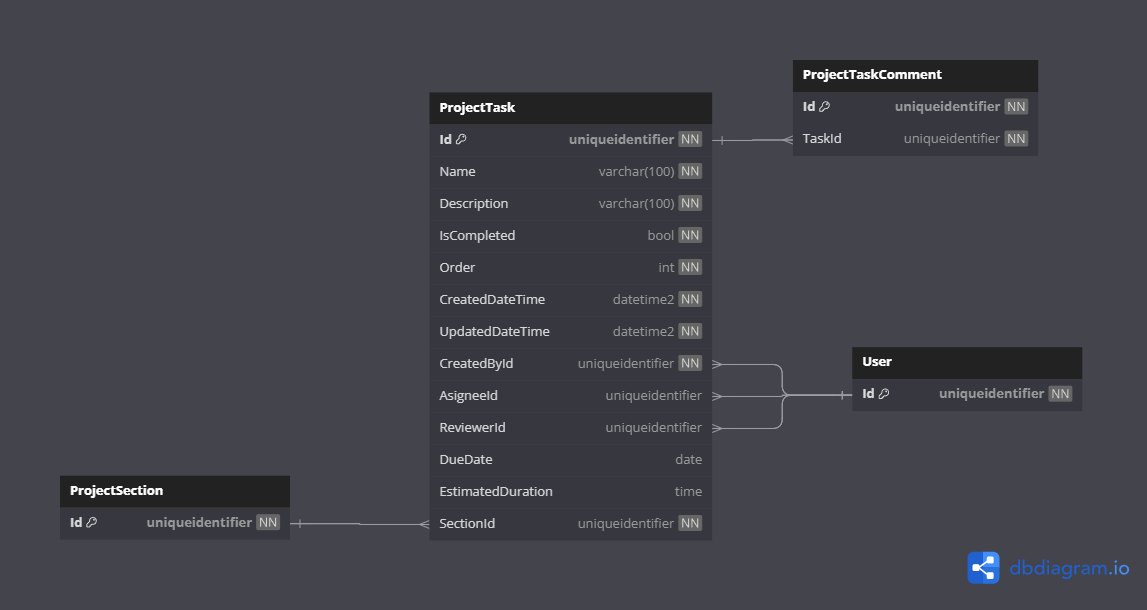
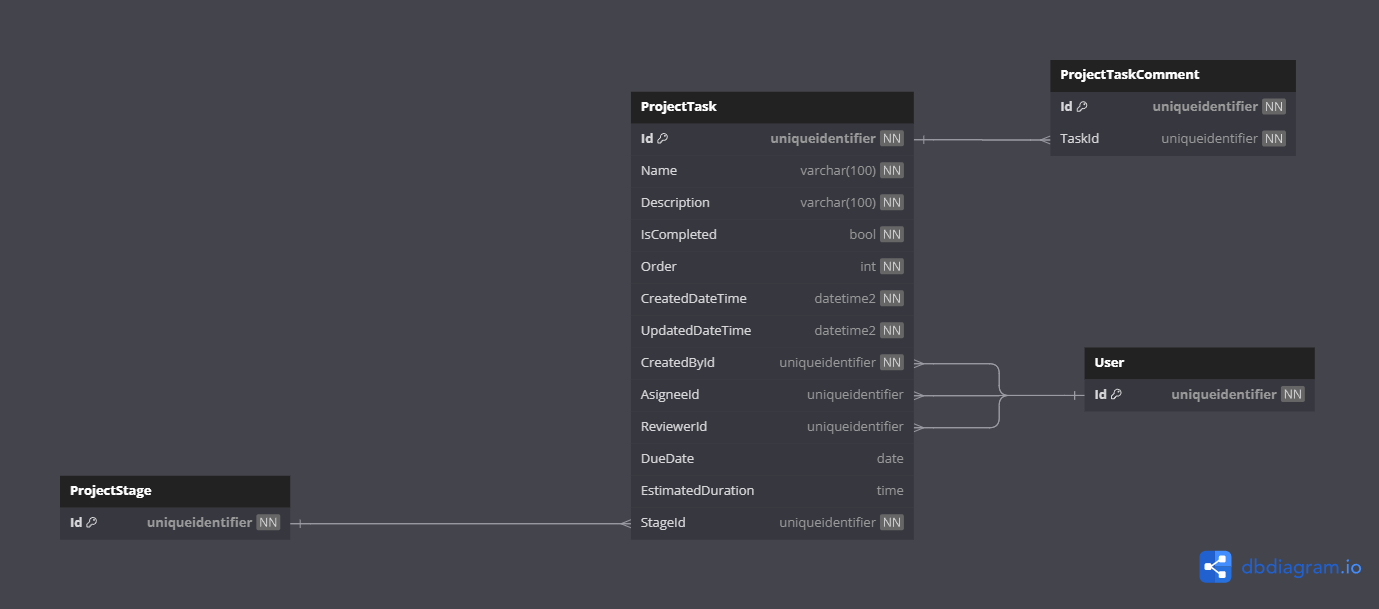
#100 Domain - Rename the Project Section to Project Stage inside the Documentation

diff --git a/docs/domain/entities/project/Entity.ProjectStage.md b/docs/domain/entities/project/Entity.ProjectStage.md
@@ -1,13 +1,13 @@
 # Domain Entities
 
-## Project Section
+## Project Stage
 
-This is the project **section** entity.
+This is the project **stage** entity.
 
 ```csharp
-class ProjectSection
+class ProjectStage
 {
-    ProjectSection Create()
+    ProjectStage Create()
     void Update()
     void AddTask()
 }
@@ -16,14 +16,14 @@ class ProjectSection
 ```json
 {
   "id": { "value": "00000000-0000-0000-0000-000000000000" },
-  "name": { "value": "Section 1" },
+  "name": { "value": "Stage 1" },
   "order": { "value": 0 },
   "sprint": {},
   "tasks": [{}]
 }
 ```
 
-For database design checkout the [Project Section Diagram](../../diagrams/entities/project/Diagram.ProjectSection.md).
+For database design checkout the [Project Stage Diagram](../../diagrams/entities/project/Diagram.ProjectStage.md).
 
 ### Properties Validation
 

diff --git a/docs/domain/aggregates/Aggregate.Project.md b/docs/domain/aggregates/Aggregate.Project.md
@@ -34,7 +34,7 @@ For database design checkout the [Project Diagram](../diagrams/aggregates/Diagra
 ### Entities
 
 - [Project Sprint](../entities/project/Entity.ProjectSprint.md)
-- [Project Section](../entities/project/Entity.ProjectSection.md)
+- [Project Stage](../entities/project/Entity.ProjectStage.md)
 
 ### Properties Validation
 
@@ -46,4 +46,5 @@ For database design checkout the [Project Diagram](../diagrams/aggregates/Diagra
 - **Not Found** when the project cannot be found
 
 ### Domain Events
-- **Project Created** when the project gets created, it will also create sprints, sections and tasks as examples for user 
+
+- **Project Created** when the project gets created, it will also create sprints, stages and tasks as examples for user 

diff --git a/docs/domain/diagrams/aggregates/Diagram.Project.md b/docs/domain/diagrams/aggregates/Diagram.Project.md
@@ -7,7 +7,7 @@
 - **Many-to-one** relationship with the [Workspace](../../aggregates/Aggregate.Workspace.md) aggregate.
 - **One-to-Many** relationship with the [Project Sprint](../../entities/project/Entity.ProjectSprint.md) entity.
   - The Sprint has a **One-to-Many** relationship with the 
-    [Project Section](../../entities/project/Entity.ProjectSection.md) entity.
+    [Project Stage](../../entities/project/Entity.ProjectStage.md) entity.
     - The Section has a **One-to-Many** relationship with the
       [Project Task](../../aggregates/Aggregate.ProjectTask) aggregate.
 

diff --git a/docs/Domain.md b/docs/Domain.md
@@ -110,6 +110,6 @@ except the primary key and direct relations), check below:
   - [Workspace Role Diagram](domain/diagrams/entities/Diagram.WorkspaceRole.md)
   - Project Entities
     - [Project Sprint Diagram](domain/diagrams/entities/project/Diagram.ProjectSprint.md)
-    - [Project Section Diagram](domain/diagrams/entities/project/Diagram.ProjectSection.md)
+    - [Project Stage Diagram](domain/diagrams/entities/project/Diagram.ProjectStage.md)
   - Project Task Entities
     - [Project Task Comment Diagram](domain/diagrams/entities/project-task/Diagram.ProjectTaskComment.md)

diff --git a/docs/domain/diagrams/aggregates/Diagram.ProjectTask.md b/docs/domain/diagrams/aggregates/Diagram.ProjectTask.md
@@ -4,7 +4,7 @@
 
 ### Relationships
 
-- **Many-to-one** relationship with the [Project Section](../../entities/project/Entity.ProjectSection.md) entity.
+- **Many-to-one** relationship with the [Project Stage](../../entities/project/Entity.ProjectStage.md) entity.
 - **One-to-Many** relationship with the [Project Task Comment](../../entities/project-task/Entity.ProjectTaskComment.md) entity.
 - Three **Many-to-one** relationships with the [User](../../aggregates/Aggregate.User.md) aggregate.
 

diff --git a/docs/domain/diagrams/entities/project/Diagram.ProjectStage.md b/docs/domain/diagrams/entities/project/Diagram.ProjectStage.md
@@ -1,0 +1,12 @@
+# Database Diagrams
+
+## Project Stage
+
+### Relationships
+
+- **Many-to-one** relationship with the [Project Sprint](../../../entities/project/Entity.ProjectSprint.md) entity.
+- **One-to-many** relationship with the [Project Task](../../../aggregates/Aggregate.ProjectTask.md) entity.
+
+### Diagram
+
+<img src="../../../../images/domain/diagrams/entities/project/diagram.project-stage.png" alt="Project Stage Diagram" width="75%"/>

diff --git a/docs/domain/diagrams/entities/project/Diagram.ProjectSprint.md b/docs/domain/diagrams/entities/project/Diagram.ProjectSprint.md
@@ -5,7 +5,7 @@
 ### Relationships
 
 - **Many-to-one** relationship with the [Project](../../../aggregates/Aggregate.Project.md) aggregate.
-- **One-to-many** relationship with the [Project Section](../../../entities/project/Entity.ProjectSection.md) entity.
+- **One-to-many** relationship with the [Project Stage](../../../entities/project/Entity.ProjectStage.md) entity.
 
 ### Diagram
 

diff --git a/docs/domain/aggregates/Aggregate.ProjectTask.md b/docs/domain/aggregates/Aggregate.ProjectTask.md
@@ -27,7 +27,7 @@ class ProjectTask
   "reviewer": {},
   "dueDate": "2020-01-01",
   "estimatedDuration": "08:30",
-  "section": {},
+  "stage": {},
   "comments": [{}]
 }
 ```

diff --git a/docs/domain/entities/project/Entity.ProjectSprint.md b/docs/domain/entities/project/Entity.ProjectSprint.md
@@ -21,7 +21,7 @@ class ProjectSprint
   "startDate": "2020-01-01",
   "endDate": "2022-12-12",
   "project": {},
-  "sections": [{}]
+  "stages": [{}]
 }
 ```
 
